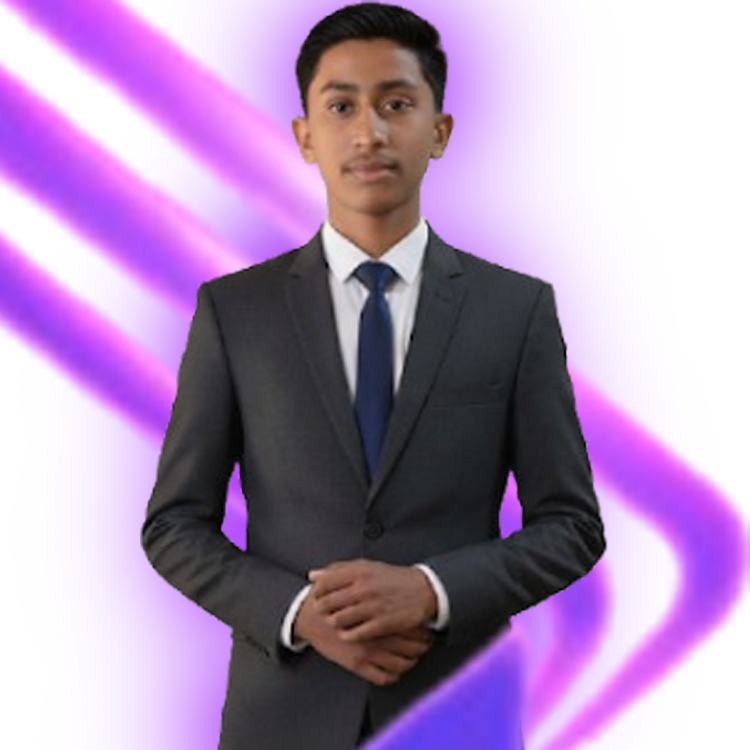
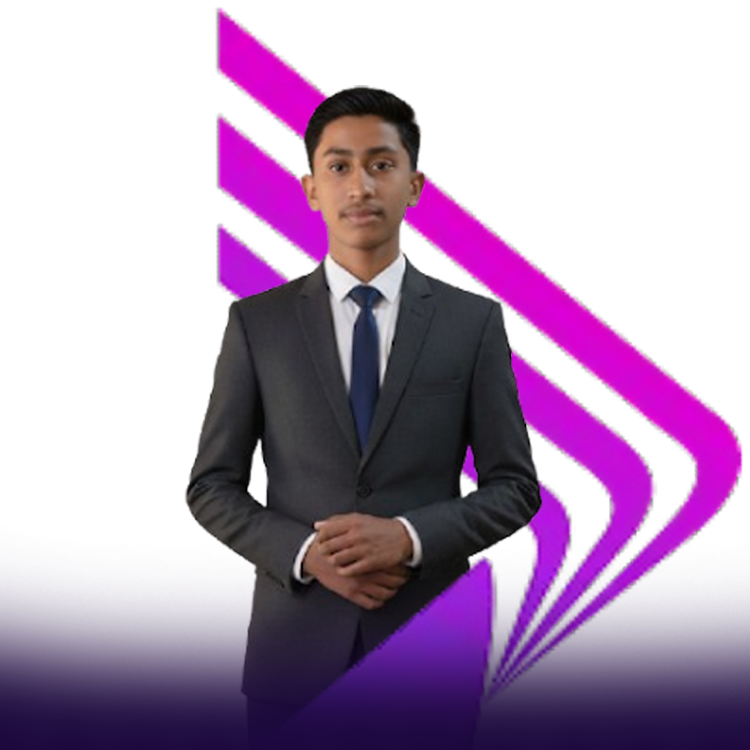
add image

diff --git a/index.html b/index.html
@@ -13,7 +13,7 @@
       crossorigin="anonymous"
       referrerpolicy="no-referrer"
     />
-    <link rel="stylesheet" href="responsive.css">
+    <link rel="stylesheet" href="responsive.css" />
   </head>
   <body>
     <header>
@@ -45,77 +45,80 @@
       </div>
     </header>
     <main>
-      <!-- _-__-___--__-__----_-_------_-_-__-___-___-____-hero-section____________________________________ -->
-      <div class="hero-section">
-        <div class="img">
-          <img src="images/MY_IMAG.png" alt="" />
+      <div class="bg-contain">
+        <!-- _-__-___--__-__----_-_------_-_-__-___-___-____-hero-section____________________________________ -->
+        <div class="hero-section">
+          <div class="img">
+            <img src="images/MY_IMAG.png" alt="" />
+          </div>
+          <div class="head-line">
+            <h1>
+              I do code and <br />
+              make content <span>about it!</span>
+            </h1>
+          </div>
+          <div class="p-text">
+            <p>
+              I am a seasoned full-stack web developer with over 8 years of
+              <br />
+              professional experience, specializing in backend development. My
+              <br />
+              expertise lies in crafting robust and scalable SaaS-based <br />
+              architectures on the Amazon AWS platform.
+            </p>
+          </div>
+          <div class="btn">
+            <a href="" class="btn1">Get In Touch</a>
+            <a target="_blank" href="images/Cv.pdf" class="btn2">Download CV</a>
+          </div>
         </div>
-        <div class="head-line">
-          <h1>
-            I do code and <br />
-            make content <span>about it!</span>
-          </h1>
+        <!-- _-__-___--__-__----_-_------_-_-__-___-___-____-hero-section____________________________________ -->
+        <!-- _-__-___--__-__----_-_------_-_-__-___-___-____-experience____________________________________ -->
+        <div class="experience">
+          <h1>EXPERIENCE WITH</h1>
+          <div class="language-images">
+            <img src="images/javascript.png" alt="" />
+            <img src="images/html.png" alt="" />
+            <img src="images/css.png" alt="" />
+            <img src="images/react.png" alt="" />
+          </div>
         </div>
-        <div class="p-text">
-          <p>
-            I am a seasoned full-stack web developer with over 8 years of
-            <br />
-            professional experience, specializing in backend development. My
-            <br />
-            expertise lies in crafting robust and scalable SaaS-based <br />
-            architectures on the Amazon AWS platform.
-          </p>
-        </div>
-        <div class="btn">
-          <a href="" class="btn1">Get In Touch</a>
-          <a target="_blank" href="images/Cv.pdf" class="btn2">Download CV</a>
-        </div>
-      </div>
-      <!-- _-__-___--__-__----_-_------_-_-__-___-___-____-hero-section____________________________________ -->
-      <!-- _-__-___--__-__----_-_------_-_-__-___-___-____-experience____________________________________ -->
-      <div class="experience">
-        <h1>EXPERIENCE WITH</h1>
-        <div class="language-images">
-          <img src="images/javascript.png" alt="" />
-          <img src="images/html.png" alt="" />
-          <img src="images/css.png" alt="" />
-          <img src="images/react.png" alt="" />
-        </div>
-      </div>
-      <!-- _-__-___--__-__----_-_------_-_-__-___-___-____-experience____________________________________ -->
-      <!-- _-__-___--__-__----_-_------_-_-__-___-___-____-Project____________________________________ -->
-      <div class="projects">
-        <h1>Projects</h1>
-        <div class="cards">
-          <a href="https://www.youtube.com/watch?v=v5nK4b64iQ0">
-            <div class="card1">
-              <img class="img" src="images/project-t-1.png" alt="" />
-              <div class="text-con">
-                <div class="text">
-                  <p>CLICK HERE TO VISIT</p>
-                  <h3>HTML TUTORIAL</h3>
+        <!-- _-__-___--__-__----_-_------_-_-__-___-___-____-experience____________________________________ -->
+        <!-- _-__-___--__-__----_-_------_-_-__-___-___-____-Project____________________________________ -->
+        <div class="projects">
+          <h1>Projects</h1>
+          <div class="cards">
+            <a href="https://www.youtube.com/watch?v=v5nK4b64iQ0">
+              <div class="card1">
+                <img class="img" src="images/project-t-1.png" alt="" />
+                <div class="text-con">
+                  <div class="text">
+                    <p>CLICK HERE TO VISIT</p>
+                    <h3>HTML TUTORIAL</h3>
+                  </div>
+                  <img src="images/aroow.png" alt="" />
                 </div>
-                <img src="images/aroow.png" alt="" />
               </div>
-            </div>
-          </a>
-          <a
-            href="https://www.youtube.com/watch?v=IR8cDxTy478&t=874s&pp=0gcJCfsJAYcqIYzv"
-          >
-            <div class="card2">
-              <img class="img" src="images/project-t-2.png" alt="" />
-              <div class="text-con">
-                <div class="text">
-                  <p>CLICK HERE TO VISIT</p>
-                  <h3>CSS TUTORIA</h3>
+            </a>
+            <a
+              href="https://www.youtube.com/watch?v=IR8cDxTy478&t=874s&pp=0gcJCfsJAYcqIYzv"
+            >
+              <div class="card2">
+                <img class="img" src="images/project-t-2.png" alt="" />
+                <div class="text-con">
+                  <div class="text">
+                    <p>CLICK HERE TO VISIT</p>
+                    <h3>CSS TUTORIA</h3>
+                  </div>
+                  <img src="images/aroow.png" alt="" />
                 </div>
-                <img src="images/aroow.png" alt="" />
               </div>
-            </div>
-          </a>
+            </a>
+          </div>
         </div>
+        <!-- _-__-___--__-__----_-_------_-_-__-___-___-____-Project____________________________________ -->
       </div>
-      <!-- _-__-___--__-__----_-_------_-_-__-___-___-____-Project____________________________________ -->
+
       <div class="exp">
         <h1 class="h1">Experience</h1>
         <div class="cards">
@@ -206,7 +209,7 @@
     <footer>
       <div class="foot1">
         <div class="foot-card1">
-          <img src="images/logo.png" alt="">
+          <img src="images/logo.png" alt="" />
         </div>
         <div class="foot-card2">
           <ul>

diff --git a/style.css b/style.css
@@ -45,7 +45,7 @@ body {
 #navigation {
   transition: 1s ease;
 }
-header{
+header {
   top: 0;
   position: sticky;
   backdrop-filter: blur(10px);
@@ -81,6 +81,11 @@ nav {
     }
   }
 }
+.bg-contain {
+  background-repeat: no-repeat;
+  background-image: url("images/hero-bg.jpg");
+  background-size: cover;
+}
 main {
   & .hero-section {
     display: inline;
@@ -88,8 +93,8 @@ main {
     font-family: var(--font-family-Poppins);
     text-align: center;
     & .img img {
-      width: 261px;
-      height: 233;
+      width: 331px;
+      height: 303;
     }
     & .head-line {
       font-size: 30px;
